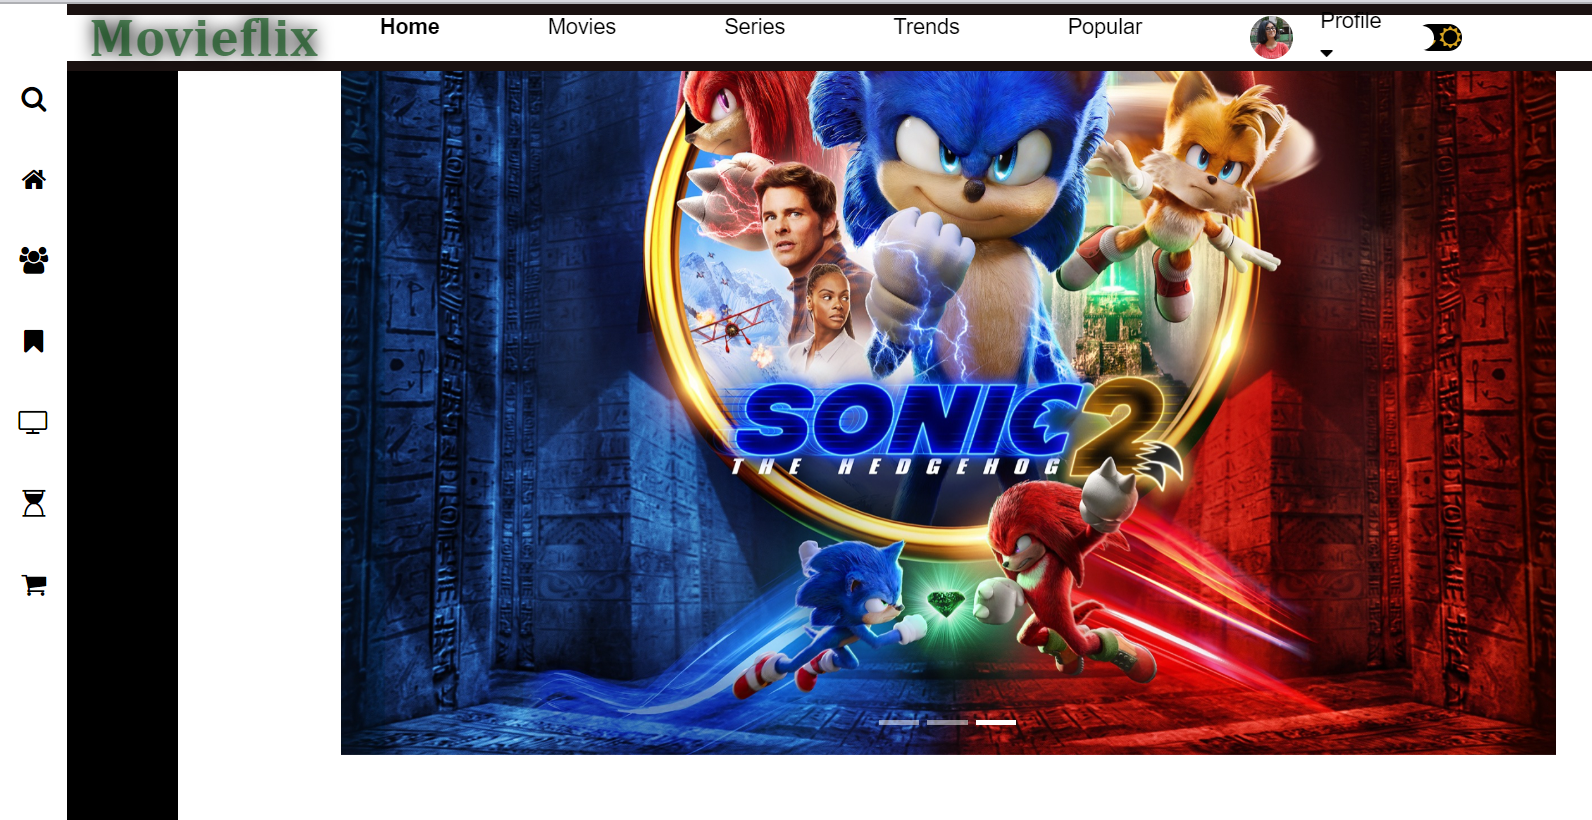
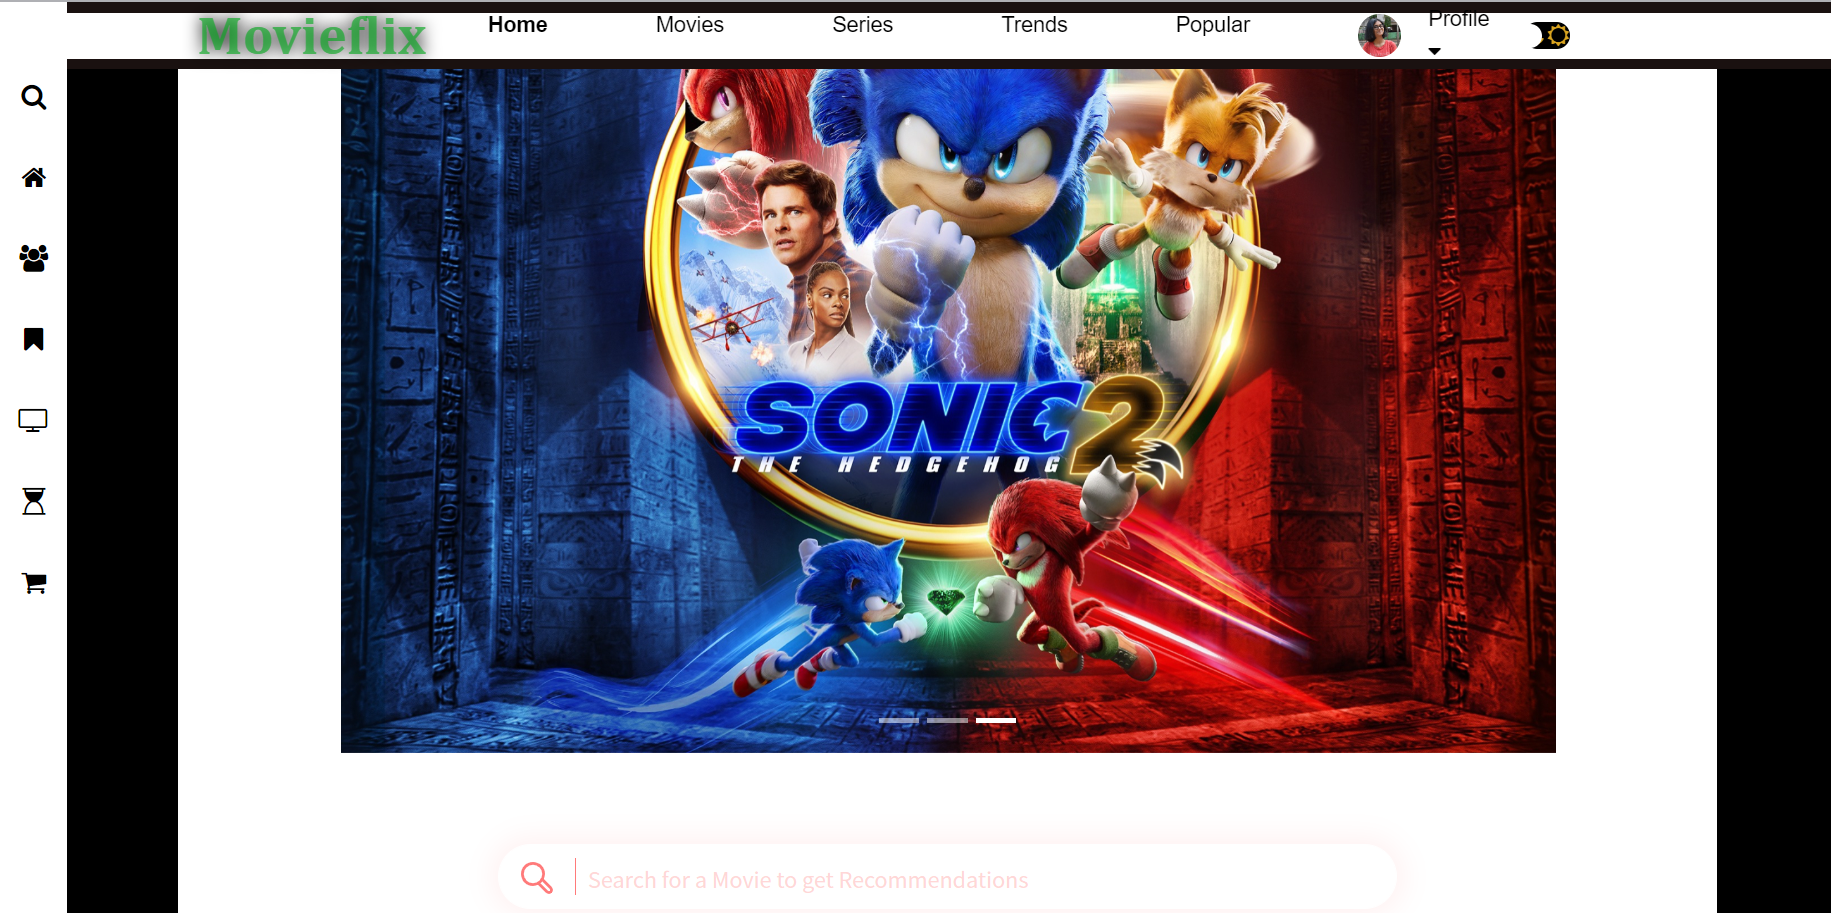
modified the psoition of navbar_active in style.css file

diff --git a/static/style.css b/static/style.css
@@ -17,7 +17,7 @@ body {
 .navbar-container {
 	display: flex;
 	align-items: center;
-	padding: 0 100px;
+	padding: 0 200px;
 	height: 100%;
 	color: white;
 	font-family: "Sen", sans-serif;
@@ -224,7 +224,7 @@ body {
 	font-size: 40px;
 	color: rgba(2, 168, 27, 0.621) ;
     margin-bottom: 30px;
-	margin-left: -50px;
+	margin-left: -70px;
   }
 
 .app-title{
